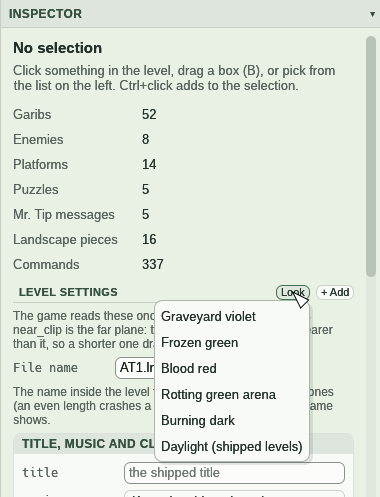
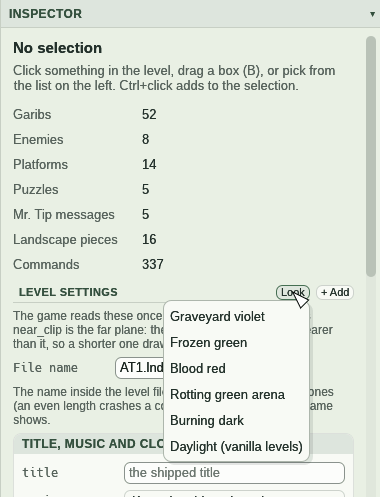
Look menu: Daylight (vanilla levels)

Changed region(s): [[0.4053, 0.6036, 0.8105, 0.9356]]

diff --git a/crates/editor/src/editor/mod.rs b/crates/editor/src/editor/mod.rs
@@ -110,7 +110,7 @@ pub const LOOKS: [LookPreset; 6] = [
     LookPreset { name: "Blood red", ambient: [150, 110, 120], lights: &[(240, 120, 110, 0.0, 3.7), (150, 110, 200, 4.28, 0.0)], fog: [40, 6, 8, 860, 1150] },
     LookPreset { name: "Rotting green arena", ambient: [160, 175, 150], lights: &[(200, 235, 170, 0.0, 3.7), (235, 110, 90, 4.28, 0.0)], fog: [10, 30, 16, 980, 1900] },
     LookPreset { name: "Burning dark", ambient: [150, 120, 110], lights: &[(250, 160, 80, 0.0, 3.7), (150, 90, 200, 4.28, 0.0)], fog: [34, 16, 6, 860, 1150] },
-    LookPreset { name: "Daylight (shipped levels)", ambient: [110, 110, 150], lights: &[(160, 160, 160, 0.0, 3.7)], fog: [40, 40, 60, 996, 1500] },
+    LookPreset { name: "Daylight (vanilla levels)", ambient: [110, 110, 150], lights: &[(160, 160, 160, 0.0, 3.7)], fog: [40, 40, 60, 996, 1500] },
 ];
 
 /// The name the Level settings list shows for a level-wide command.

diff --git a/docs/guide/Level-settings.md b/docs/guide/Level-settings.md
@@ -24,7 +24,7 @@ Note: if you set it to boot straight into the level (`boot here`, `Test level`),
 
 <img src="img/level-settings-look.png" alt="The Look menu: Graveyard violet, Frozen green, Blood red, Rotting green arena, Burning dark, Daylight" width="380">
 
-`Daylight (shipped levels)` goes back to a normal day.
+`Daylight (vanilla levels)` goes back to a normal day.
 
 ## Fog, lights and more
 
